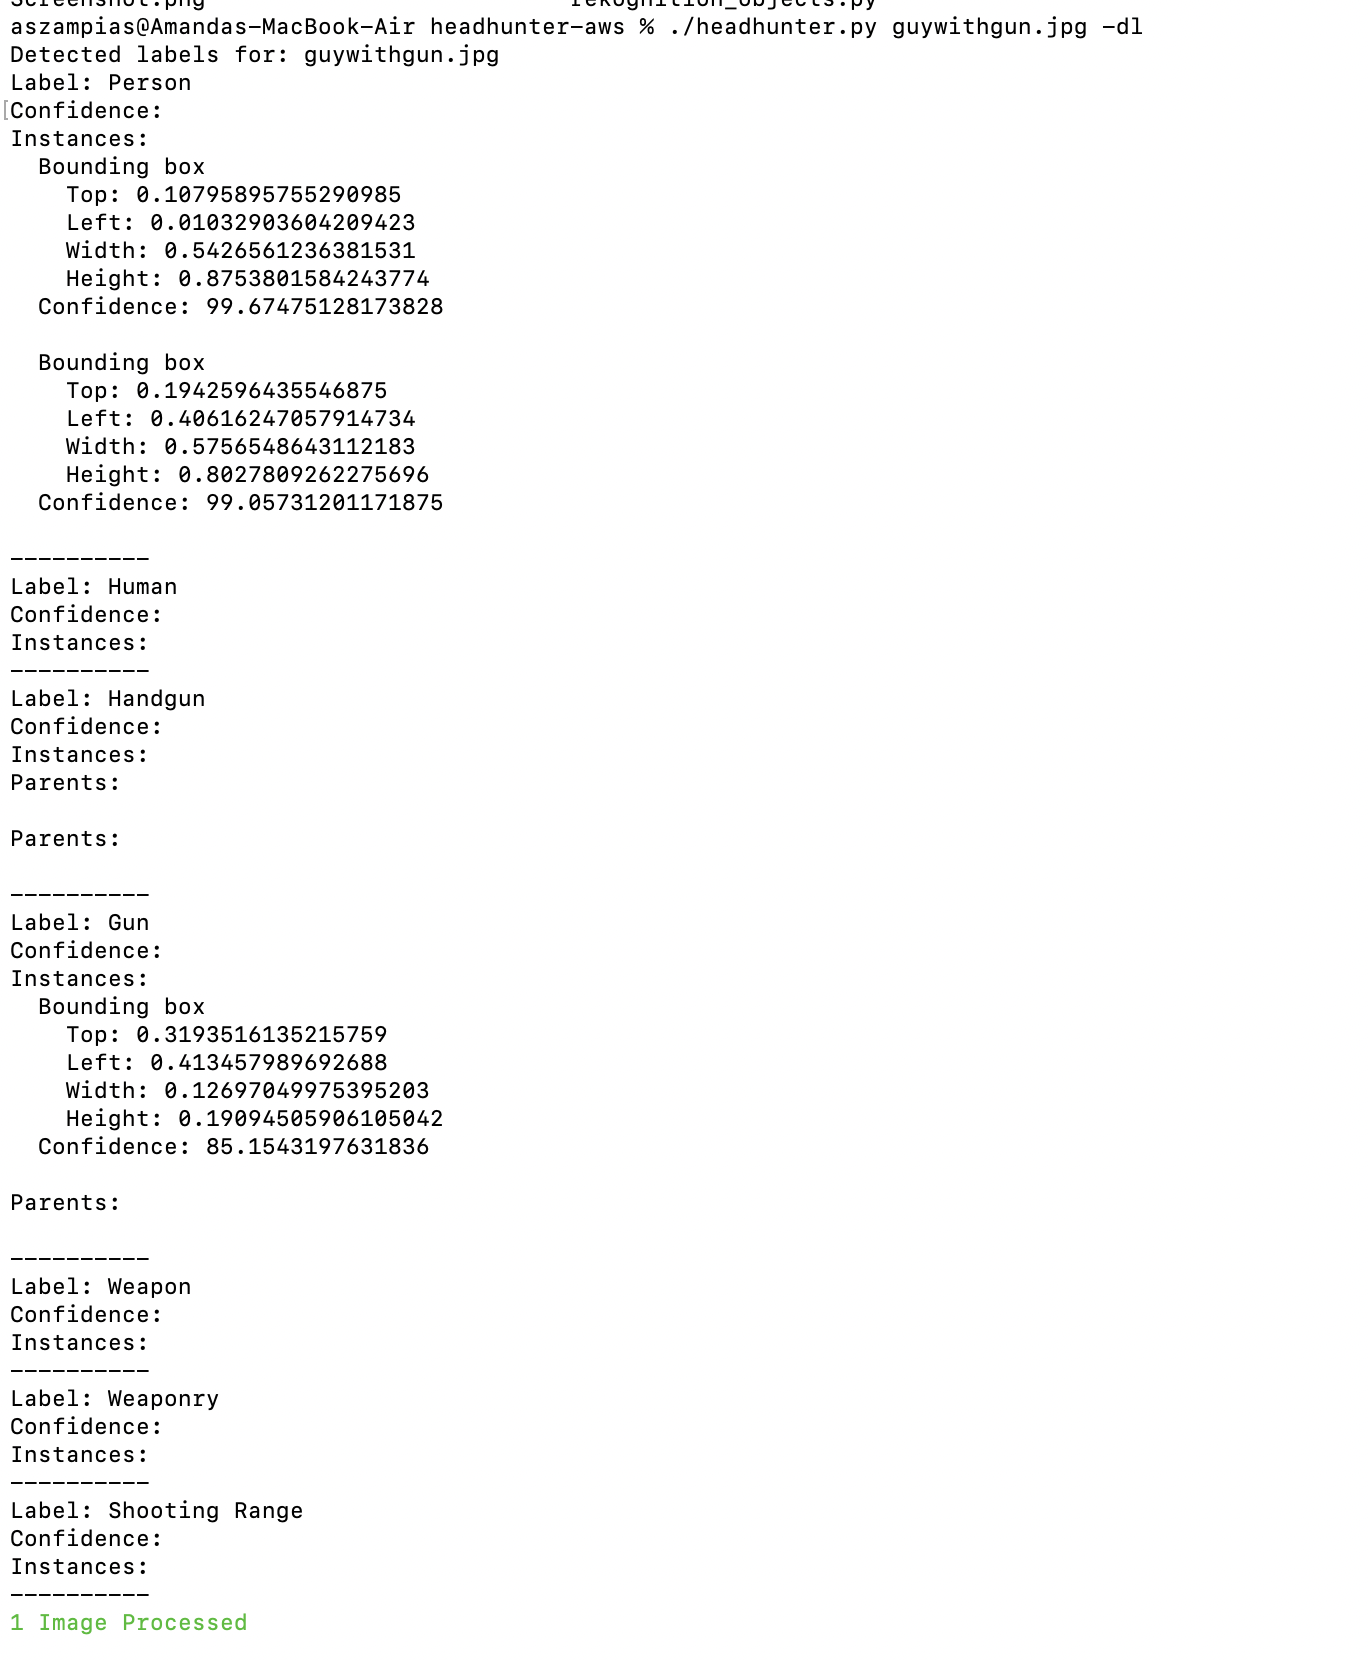
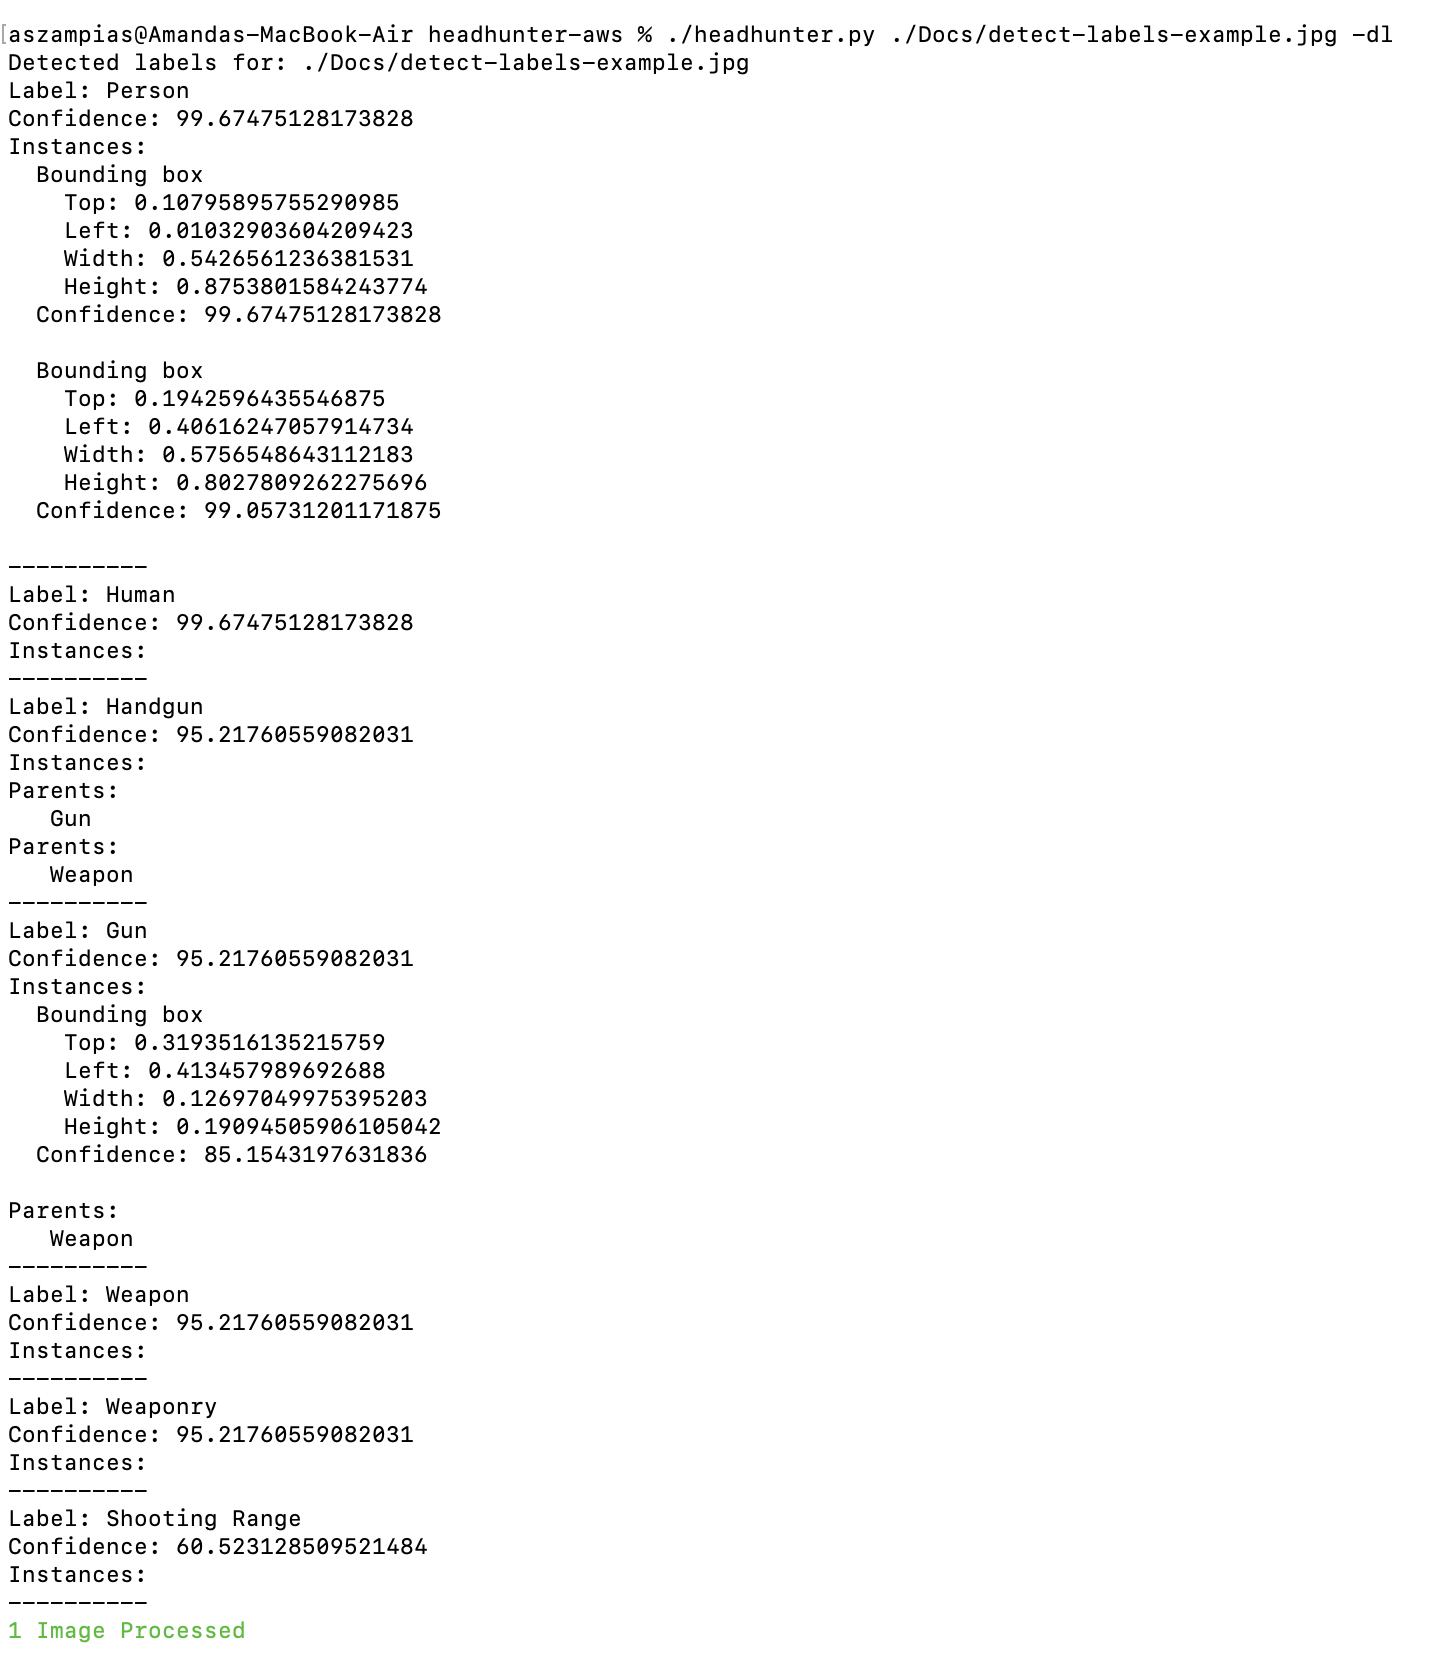
more notes

Changed region(s): [[0.0, 0.0, 0.9211, 1.0], [0.1842, 0.769, 0.2763, 0.7998]]

diff --git a/headhunter.py b/headhunter.py
@@ -129,7 +129,7 @@ def detectLabels(photo):
     print('Detected labels for: {}'.format(photo)) 
     for label in response['Labels']:
         print ("Label: {}".format(label['Name']))
-        print ("Confidence: ".format(label['Confidence']))
+        print ("Confidence: {}".format(label['Confidence']))
         print ("Instances:")
         for instance in label['Instances']:
             print ("  Bounding box")
@@ -141,7 +141,7 @@ def detectLabels(photo):
             print()  
         for parent in label['Parents']:
             print ("Parents:")
-            print ("   ".format(parent['Name']))
+            print ("   {}".format(parent['Name']))
         print ("----------")
     return len(response['Labels'])
 
